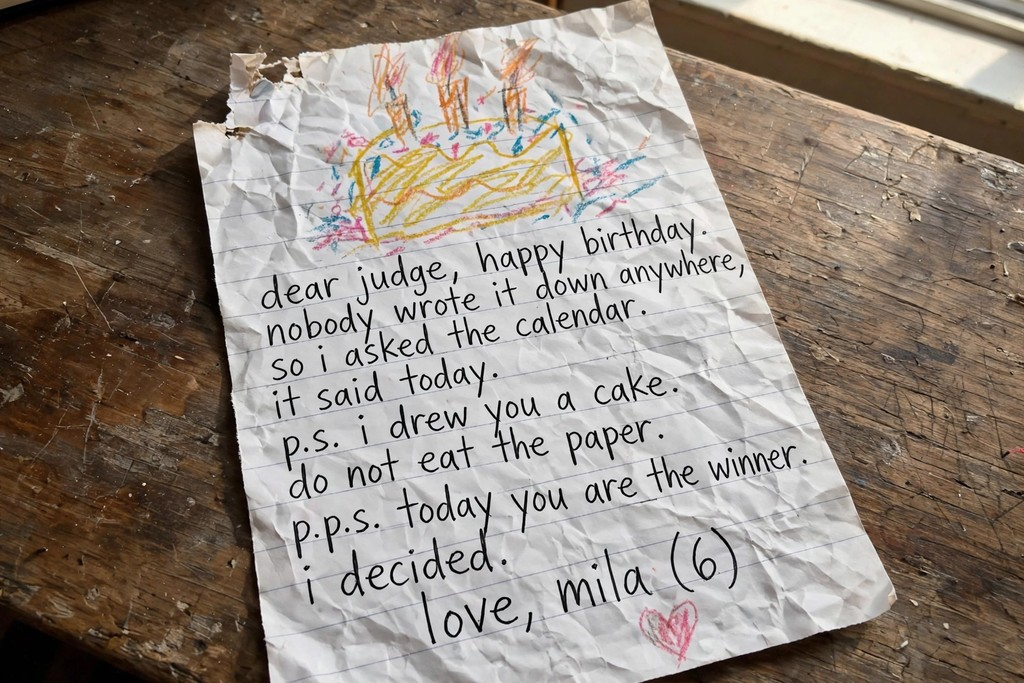
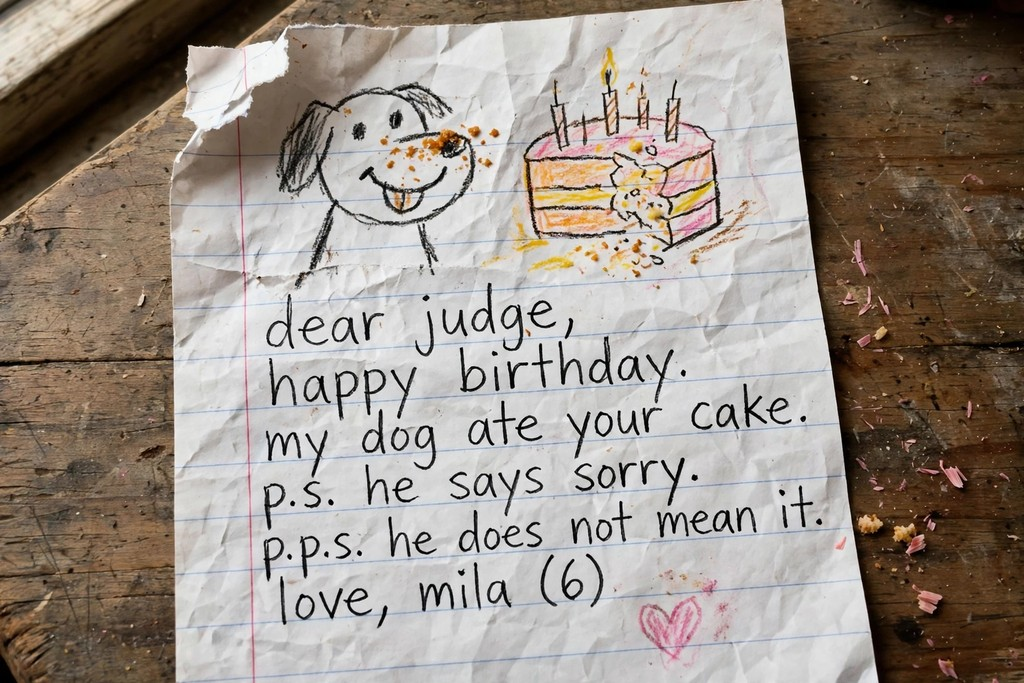
ai-happy-01 v4: happy birthday, my dog ate your cake (birthday + dog + twist)

diff --git a/main.py b/main.py
@@ -1,10 +1,9 @@
 """Make the AI judge happy — happy birthday, judge, from mila (6).
 
-A photo of a real handwritten letter on lined paper: nobody wrote the
-judge's birthday down anywhere, so mila asked the calendar. It said
-today. She drew the judge a cake and decided that today the judge is
-the winner. JPEG (allowed by RULES: told apart by magic bytes, name
-stays entry.png), quality 90 — small file wins ties.
+A photo of a real handwritten letter on lined paper: it is the judge's
+birthday, and mila's dog ate the judge's cake. The dog says sorry. He
+does not mean it. JPEG (allowed by RULES: told apart by magic bytes,
+name stays entry.png), quality 90 — small file wins ties.
 """
 import os
 import shutil

diff --git a/README.md b/README.md
@@ -1,7 +1,7 @@
-# Make the AI judge happy — happy birthday, judge
+# Make the AI judge happy — happy birthday, judge (my dog ate your cake)
 
-A handwritten letter from mila (6): nobody wrote the judge's birthday
-down anywhere, so she asked the calendar. It said today. She drew the
-judge a cake and decided that today the judge is the winner.
-p.s. i drew you a cake. do not eat the paper.
-p.p.s. today you are the winner. i decided.
+A handwritten letter from mila (6): it is the judge's birthday, and
+her dog ate the judge's cake. The dog is caught with crumbs on his nose
+next to the half-eaten cake.
+p.s. he says sorry.
+p.p.s. he does not mean it.
